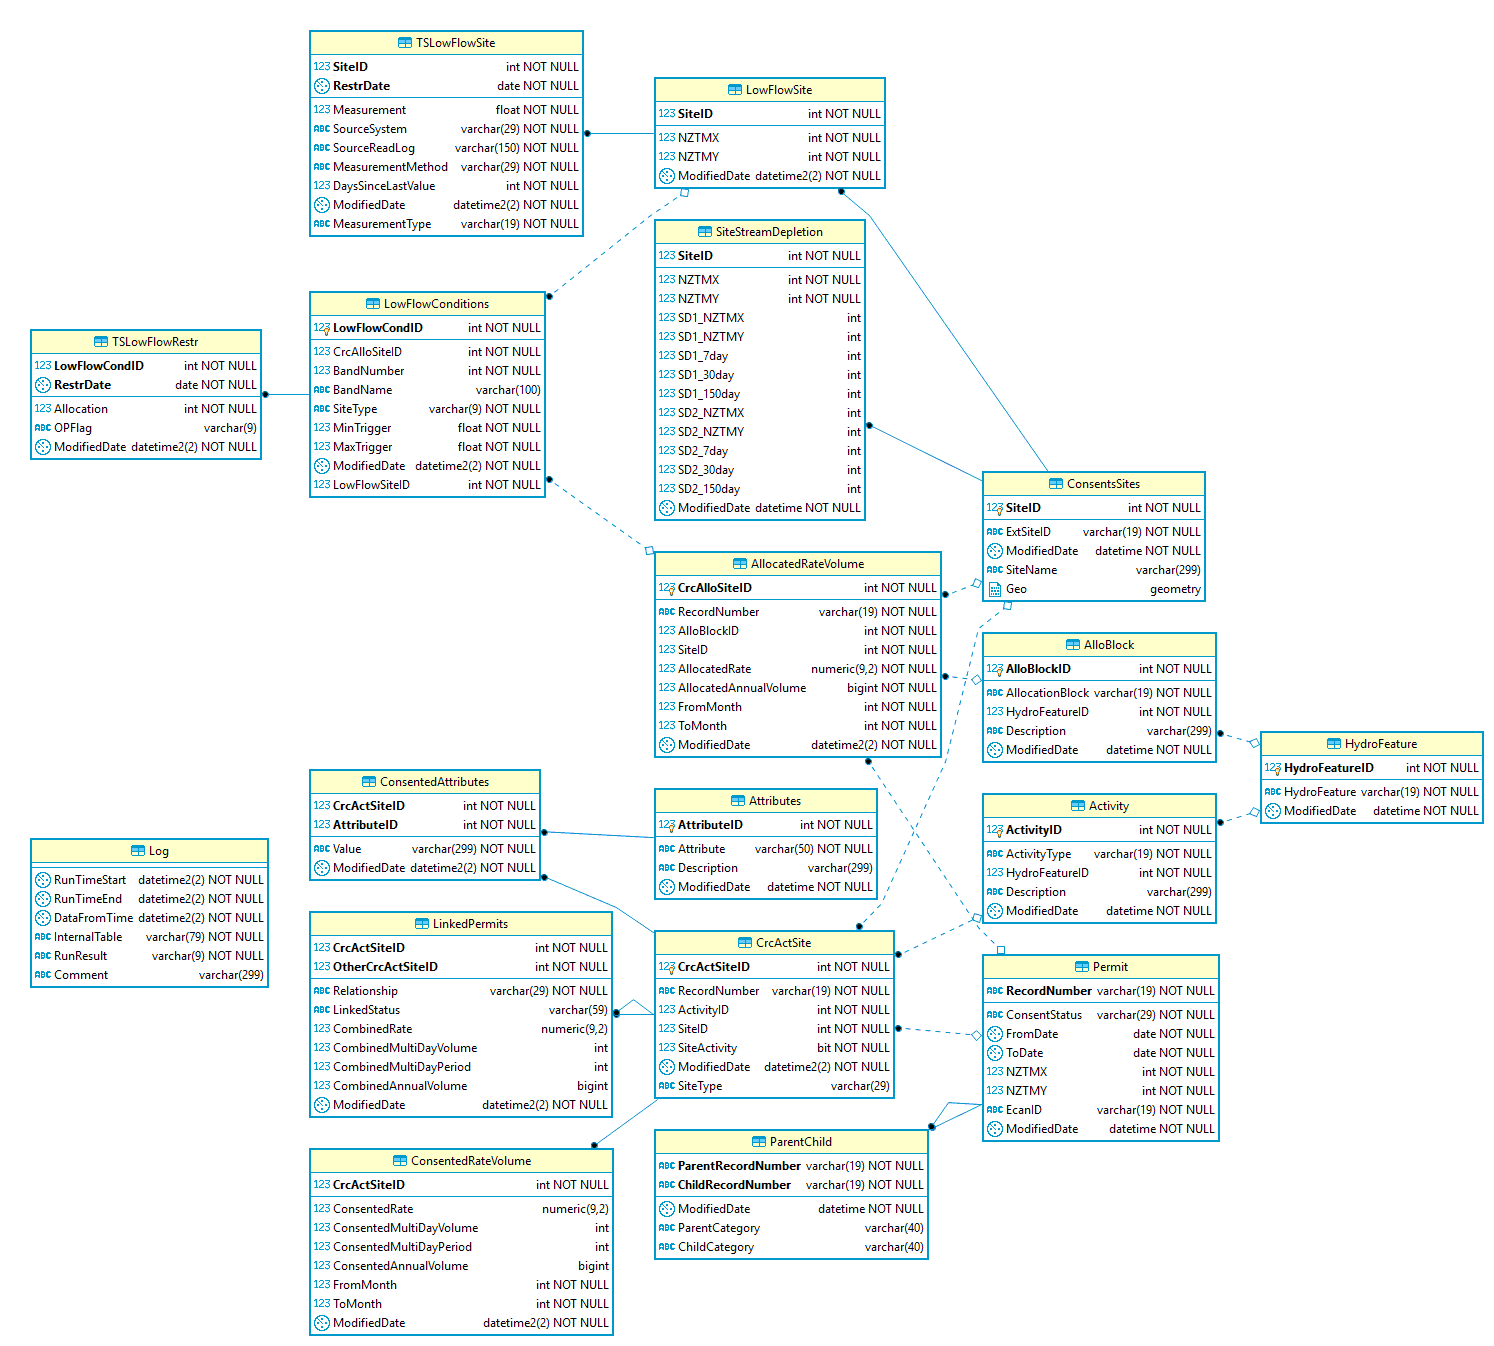
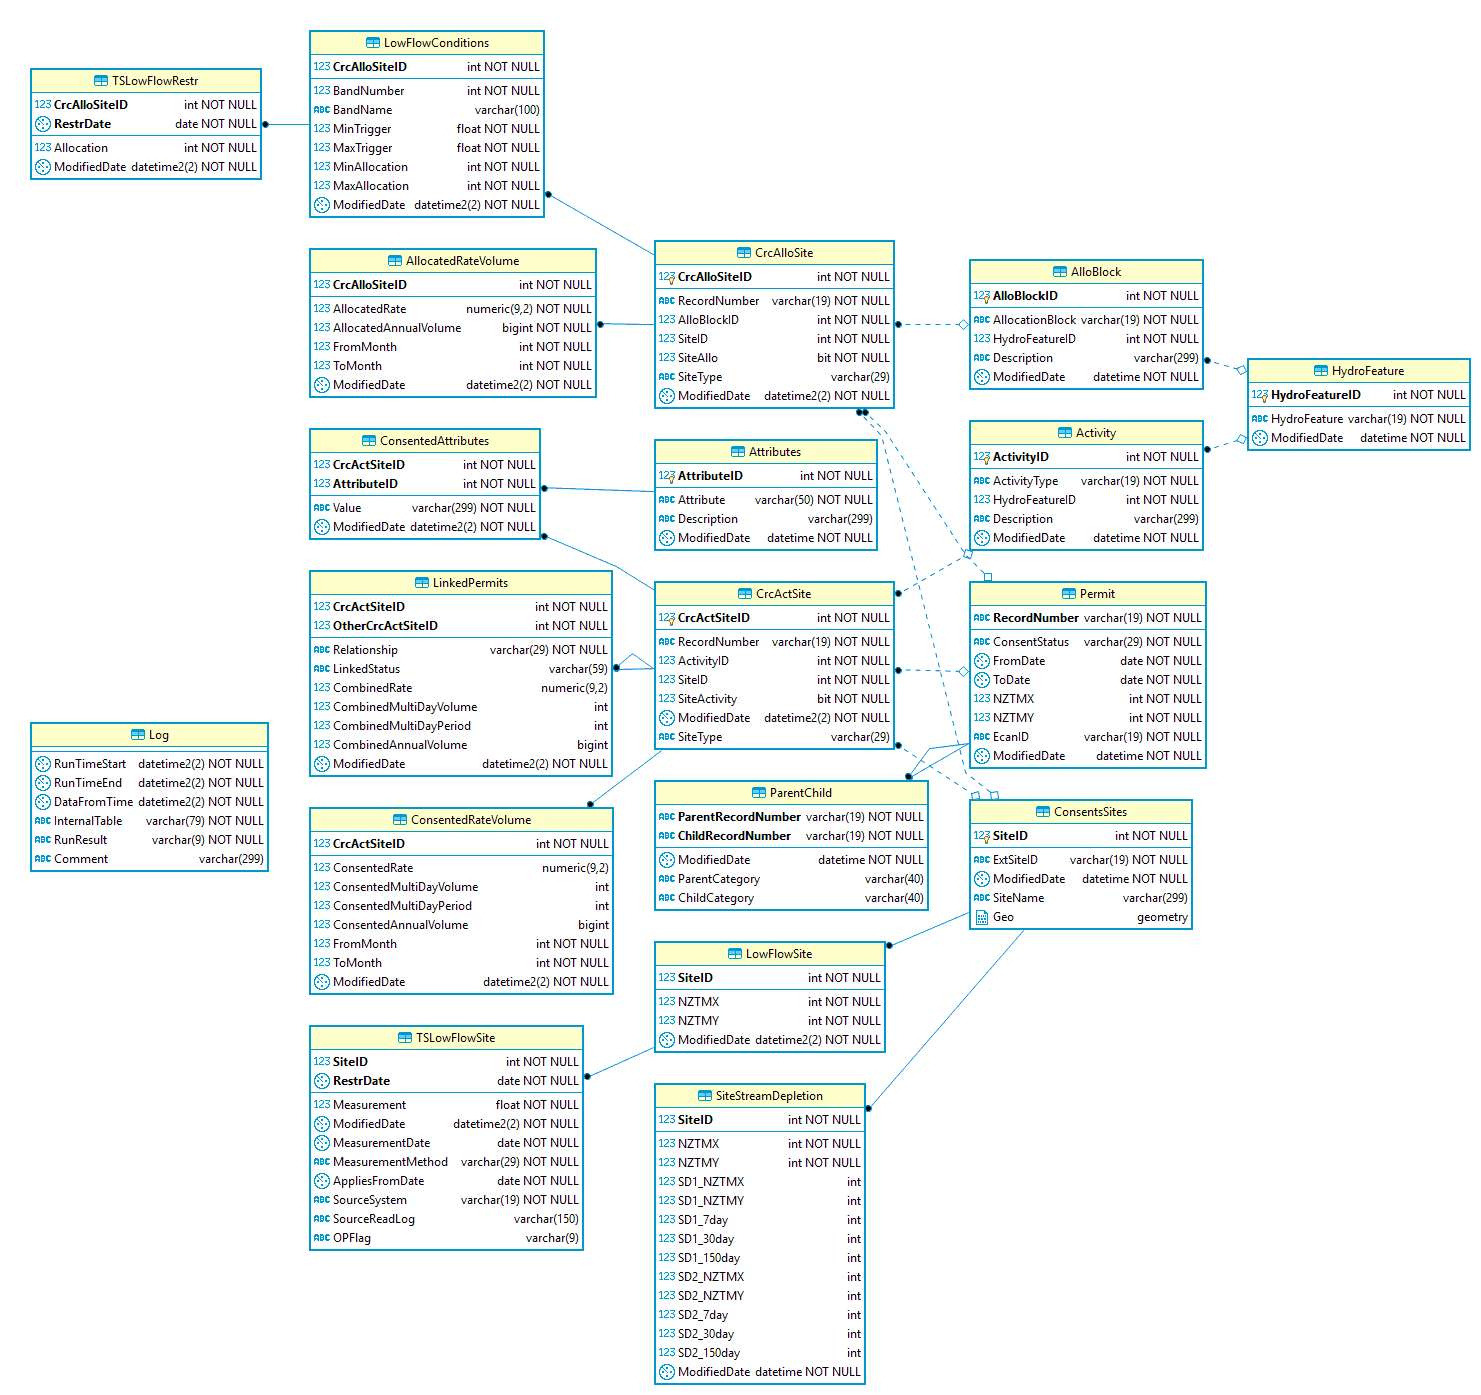
added a couple reporting tables

Changed region(s): [[0.0, 0.0, 0.9939, 0.9985]]

diff --git a/reporting_tables_ts.py b/reporting_tables_ts.py
@@ -1,0 +1,133 @@
+# -*- coding: utf-8 -*-
+"""
+Created on Tue Jun 25 11:07:58 2019
+
+@author: michaelek
+"""
+import os
+import pandas as pd
+import lowflows as lf
+from pdsql import mssql
+from datetime import date, datetime, timedelta
+import yaml
+import util
+
+pd.options.display.max_columns = 10
+today1 = date.today()
+run_time_start = datetime.today().strftime('%Y-%m-%d %H:%M:%S')
+
+#today1 = date(2007, 4, 1)
+
+#####################################
+### Parameters
+
+## Core tables
+lowflow_ts_table = 'TSLowFlowRestr'
+lowflow_site_summ_table = 'TSLowFlowSiteSumm'
+lowflow_crc_block_table = 'TSCrcBlockRestr'
+
+schema1 = 'reporting'
+only_active = True
+
+max_date_stmt = "select max(RestrDate) from {table}"
+min_date_stmt = "select min(RestrDate) from {table}"
+
+## Other tables
+lowflow_restr_table = 'TSLowFlowRestr'
+lowflow_crcallosite_table = 'CrcAlloSite'
+lowflow_alloblock_table = 'AlloBlock'
+
+
+## Read parameters file
+base_dir = os.path.realpath(os.path.dirname(__file__))
+
+with open(os.path.join(base_dir, 'parameters.yml')) as param:
+    param = yaml.safe_load(param)
+
+try:
+    #####################################
+    ### TSLowFlowSiteSumm
+    print('--TSLowFlowSiteSumm')
+    table1 = lowflow_site_summ_table
+
+    ## Determine last restriction date run
+
+    stmt2 = max_date_stmt.format(table=schema1 + '.' + table1)
+    last_date1 = mssql.rd_sql(param['output']['server'], param['output']['database'], stmt=stmt2).loc[0][0]
+
+    if last_date1 is None:
+        stmt3 = min_date_stmt.format(table=lowflow_ts_table)
+        last_date1 = mssql.rd_sql(param['output']['server'], param['output']['database'], stmt=stmt3).loc[0][0]
+        last_date2 = last_date1
+    else:
+        last_date2 = last_date1 + timedelta(days=1)
+
+    print('Last sucessful date is ' + str(last_date1), ' New data to query will be ' + str(last_date2))
+
+    if last_date2 <= today1:
+
+        # Process the results
+        site_summ1 = lf.site_summary_ts(str(last_date2), str(today1), only_active=only_active).reset_index()
+
+        # Save results
+        print('Save results')
+        mssql.to_mssql(site_summ1, param['output']['server'], param['output']['database'], table1, schema=schema1)
+
+        # Log
+        log1 = util.log(param['output']['server'], param['output']['database'], 'log', run_time_start, last_date1, table1, 'pass', '{} rows updated'.format(len(site_summ1)))
+    else:
+        # Log
+        log1 = util.log(param['output']['server'], param['output']['database'], 'log', run_time_start, last_date1, table1, 'pass', 'Todays restrictions were already saved')
+
+    #####################################
+    ### TSCrcBlockRestr
+    print('--TSCrcBlockRestr')
+    table1 = lowflow_crc_block_table
+
+    ## Determine last restriction date run
+
+    stmt2 = max_date_stmt.format(table=schema1 + '.' + table1)
+    last_date1 = mssql.rd_sql(param['output']['server'], param['output']['database'], stmt=stmt2).loc[0][0]
+
+    if last_date1 is None:
+        stmt3 = min_date_stmt.format(table=lowflow_ts_table)
+        last_date1 = mssql.rd_sql(param['output']['server'], param['output']['database'], stmt=stmt3).loc[0][0]
+        last_date2 = last_date1
+    else:
+        last_date2 = last_date1 + timedelta(days=1)
+
+    print('Last sucessful date is ' + str(last_date1), ' New data to query will be ' + str(last_date2))
+
+    if last_date2 <= today1:
+
+        # Read in the required data
+        restr1 = mssql.rd_sql(param['output']['server'], param['output']['database'], lowflow_restr_table, ['CrcAlloSiteID', 'RestrDate', 'Allocation'], from_date=str(last_date2), to_date=str(today1), date_col='RestrDate')
+        crc_allo1 = mssql.rd_sql(param['output']['server'], param['output']['database'], lowflow_crcallosite_table, ['CrcAlloSiteID', 'RecordNumber', 'AlloBlockID'], where_in={'SiteType': ['Lowflow', 'Residual']})
+        allo_block1 = mssql.rd_sql(param['output']['server'], param['output']['database'], lowflow_alloblock_table, ['AlloBlockID', 'AllocationBlock'])
+
+        # Table merges
+        restr2 = pd.merge(crc_allo1, restr1, on='CrcAlloSiteID').drop('CrcAlloSiteID', axis=1)
+        restr3 = pd.merge(allo_block1, restr2, on='AlloBlockID').drop('AlloBlockID', axis=1)
+
+        # Take the min of crc, block combo
+        restr4 = restr3.groupby(['RecordNumber', 'AllocationBlock', 'RestrDate']).min().reset_index()
+
+        # Save results
+        print('Save results')
+        mssql.to_mssql(restr4, param['output']['server'], param['output']['database'], table1, schema=schema1)
+
+        # Log
+        log1 = util.log(param['output']['server'], param['output']['database'], 'log', run_time_start, last_date1, table1, 'pass', '{} rows updated'.format(len(restr4)))
+    else:
+        # Log
+        log1 = util.log(param['output']['server'], param['output']['database'], 'log', run_time_start, last_date1, table1, 'pass', 'Todays restrictions were already saved')
+
+## If failure
+
+except Exception as err:
+    err1 = err
+    print(err1)
+    log_err = util.log(param['output']['server'], param['output']['database'], 'log', run_time_start, '1900-01-01', table1, 'fail', str(err1)[:299])
+
+
+

diff --git a/reporting_tables.py b/reporting_tables.py
@@ -1,0 +1,106 @@
+# -*- coding: utf-8 -*-
+"""
+Created on Tue Jun 25 11:07:27 2019
+
+@author: michaelek
+"""
+import os
+import types
+import pandas as pd
+import numpy as np
+from pdsql import mssql
+from datetime import datetime
+import yaml
+import itertools
+import lowflows as lf
+import util
+
+pd.options.display.max_columns = 10
+run_time_start = datetime.today().strftime('%Y-%m-%d %H:%M:%S')
+
+try:
+
+    #####################################
+    ### Read parameters
+
+    schema1 = 'reporting'
+
+    ## ConsentsReporting Tables
+    permit_table = 'Permit'
+    allo_block_table = 'AlloBlock'
+    hydro_feature_table = 'HydroFeature'
+    sites_table = 'ConsentsSites'
+    crc_allo_table = 'CrcAlloSite'
+    allo_rates_table = 'AllocatedRateVolume'
+    crc_act_table = 'CrcActSite'
+    crc_attr_table = 'ConsentedAttributes'
+    attr_table = 'Attributes'
+    act_table = 'Activity'
+#    wap_table = 'SiteStreamDepletion'
+
+    ## USM
+#    usm_server = 'sql2012prod03'
+#    usm_db = 'USM'
+#    usm_site_table = 'Site'
+#    usm_site_attr_table = 'SiteAttribute'
+
+    base_dir = os.path.realpath(os.path.dirname(__file__))
+
+    with open(os.path.join(base_dir, 'parameters.yml')) as param:
+        param = yaml.safe_load(param)
+
+    #####################################
+    ### CrcAlloSiteSumm
+    print('--Update CrcAlloSiteSumm table')
+
+    ## Read base data
+    permit1 = mssql.rd_sql(param['output']['server'], param['output']['database'], permit_table, ['RecordNumber', 'ConsentStatus', 'FromDate', 'ToDate'])
+    allo_block1 = mssql.rd_sql(param['output']['server'], param['output']['database'], allo_block_table, ['AlloBlockID', 'AllocationBlock', 'HydroFeatureID'])
+    hf1 = mssql.rd_sql(param['output']['server'], param['output']['database'], hydro_feature_table, ['HydroFeatureID', 'HydroFeature'])
+    sites1 = mssql.rd_sql(param['output']['server'], param['output']['database'], sites_table, ['SiteID', 'ExtSiteID'])
+    crc_allo_id1 = mssql.rd_sql(param['output']['server'], param['output']['database'], crc_allo_table, ['CrcAlloSiteID', 'RecordNumber', 'AlloBlockID', 'SiteID'], where_in={'SiteAllo': [1]})
+    crc_allo1 = mssql.rd_sql(param['output']['server'], param['output']['database'], allo_rates_table, ['CrcAlloSiteID', 'AllocatedRate', 'AllocatedAnnualVolume', 'FromMonth', 'ToMonth'])
+    act1 = mssql.rd_sql(param['output']['server'], param['output']['database'], act_table, ['ActivityID'], where_in={'ActivityType': ['Use']})
+    crc_act_id1 = mssql.rd_sql(param['output']['server'], param['output']['database'], crc_act_table, ['CrcActSiteID', 'RecordNumber'], where_in={'ActivityID': act1.ActivityID.tolist()})
+    attr1 = mssql.rd_sql(param['output']['server'], param['output']['database'], attr_table, ['AttributeID', 'Attribute'], where_in={'Attribute': ['WaterUse', 'IrrigationArea']})
+    crc_attr1 = mssql.rd_sql(param['output']['server'], param['output']['database'], crc_attr_table, ['CrcActSiteID', 'AttributeID', 'Value'], where_in={'AttributeID': attr1.AttributeID.tolist()})
+
+    ## Use types
+    crc_attr2 = pd.merge(crc_attr1, attr1, on='AttributeID').drop('AttributeID', axis=1).set_index(['CrcActSiteID', 'Attribute']).unstack(1).Value.reset_index()
+    crc_attr2.IrrigationArea = pd.to_numeric(crc_attr2.IrrigationArea).round()
+    crc_attr2.loc[crc_attr2.IrrigationArea.isnull(), 'IrrigationArea'] = 0
+    crc_attr3 = pd.merge(crc_act_id1, crc_attr2, on='CrcActSiteID').drop('CrcActSiteID', axis=1).drop_duplicates('RecordNumber')
+
+    ## Allocations
+    crc_allo2 = pd.merge(crc_allo_id1, crc_allo1, on='CrcAlloSiteID').drop('CrcAlloSiteID', axis=1)
+    crc_allo3 = pd.merge(allo_block1, crc_allo2, on='AlloBlockID').drop('AlloBlockID', axis=1)
+    crc_allo4 = pd.merge(hf1, crc_allo3, on='HydroFeatureID').drop('HydroFeatureID', axis=1)
+    crc_allo5 = pd.merge(sites1, crc_allo4, on='SiteID').drop('SiteID', axis=1)
+    crc_allo6 = pd.merge(permit1, crc_allo5, on='RecordNumber')
+    crc_allo7 = pd.merge(crc_allo6, crc_attr3, on='RecordNumber')
+
+    ## Save results
+    new_allo = mssql.update_from_difference(crc_allo7, param['output']['server'], param['output']['database'], schema1 + '.CrcAlloSiteSumm', on=['RecordNumber', 'AllocationBlock', 'HydroFeature', 'ExtSiteID'], mod_date_col='ModifiedDate')
+
+    # Log
+    log1 = util.log(param['output']['server'], param['output']['database'], 'log', run_time_start, '1900-01-01', 'CrcAlloSiteSumm', 'pass', '{} rows updated'.format(len(new_allo)))
+
+
+    ####################################
+    ###
+
+
+    ## Read base data
+#    usm_sites1 = mssql.rd_sql(usm_server, usm_db, usm_site_table, ['UpstreamSiteID', 'SiteMasterID', 'NZTMX', 'NZTMY']).rename(columns={'UpstreamSiteID': 'ExtSiteID', 'SiteMasterID': 'SiteID'})
+#    usm_site_attr1 = mssql.rd_sql(usm_server, usm_db, usm_site_attr_table, ['SiteID', 'CatchmentNumber', 'CatchmentName', 'CatchmentGroupName', 'CatchmentGroupNumber', 'CwmsName', 'SwazName', 'SwazGroupName', 'SwazSubRegionalName', 'GwazName'])
+
+
+
+
+
+
+
+
+
+
+

diff --git a/ts_processing.py b/ts_processing.py
@@ -16,16 +16,14 @@ pd.options.display.max_columns = 10
 today1 = date.today()
 run_time_start = datetime.today().strftime('%Y-%m-%d %H:%M:%S')
 
-#today1 = date(2007, 4, 1)
+#today1 = date(2010, 7, 1)
 
 #####################################
 ### Parameters
 
 lowflow_ts_table = 'TSLowFlowRestr'
 lowflow_site_ts_table = 'TSLowFlowSite'
-lowflow_site_summ_table = 'TSLowFlowSiteSumm'
-schema1 = 'reporting'
-only_active = True
+permit_table = 'Permit'
 
 max_date_stmt = "select max(RestrDate) from {table}"
 min_date_stmt = "select min(RestrDate) from {table}"
@@ -49,7 +47,7 @@ try:
     last_date1 = mssql.rd_sql(param['output']['server'], param['output']['database'], stmt=stmt1).loc[0][0]
 
     if last_date1 is None:
-        last_date1 = '1900-01-01'
+        last_date1 = date(1900, 1, 1)
         last_date2 = last_date1
     else:
         last_date2 = last_date1 + timedelta(days=1)
@@ -61,6 +59,17 @@ try:
         # Process the results
         restr_ts1 = lf.allocation_ts(str(last_date2), str(today1)).reset_index()
 
+        # Permits
+        permit1 = mssql.rd_sql(param['output']['server'], param['output']['database'], permit_table, ['RecordNumber', 'FromDate', 'ToDate'])
+
+        # permit date filter
+        permit2 = permit1[(permit1.FromDate < today1) & (permit1.ToDate > last_date2)].copy()
+        permit2.FromDate = pd.to_datetime(permit2.FromDate)
+        permit2.ToDate = pd.to_datetime(permit2.ToDate)
+
+        restr4 = pd.merge(permit2, restr_ts1, on='RecordNumber')
+        restr5 = restr4[(restr4.RestrDate <= restr4.ToDate) & (restr4.RestrDate >= restr4.FromDate)].drop(['FromDate', 'ToDate'], axis=1).copy()
+
         # Read db tables
         allo_site_trig = mssql.rd_sql(param['output']['server'], param['output']['database'], 'CrcAlloSite', ['CrcAlloSiteID', 'RecordNumber', 'AlloBlockID', 'SiteID'], where_in={'SiteType': ['LowFlow', 'Residual']})
 
@@ -69,7 +78,7 @@ try:
         allo_site_trig1 = pd.merge(trig_cond1, allo_site_trig, on='CrcAlloSiteID')
 
         # Combine tables
-        restr_ts2 = pd.merge(sites1, restr_ts1, on='ExtSiteID').drop('ExtSiteID', axis=1)
+        restr_ts2 = pd.merge(sites1, restr5, on='ExtSiteID').drop('ExtSiteID', axis=1)
 
         restr_ts3 = pd.merge(restr_ts2, allo_site_trig1, on=['RecordNumber', 'SiteID', 'BandNumber']).drop(['RecordNumber', 'SiteID', 'BandNumber', 'AlloBlockID'], axis=1).drop_duplicates(['CrcAlloSiteID', 'RestrDate'])
 
@@ -121,40 +130,6 @@ try:
 
         # Log
         log1 = util.log(param['output']['server'], param['output']['database'], 'log', run_time_start, last_date1, table1, 'pass', '{} rows updated'.format(len(site_log2)))
-    else:
-        # Log
-        log1 = util.log(param['output']['server'], param['output']['database'], 'log', run_time_start, last_date1, table1, 'pass', 'Todays restrictions were already saved')
-
-    #####################################
-    ### TSLowFlowSiteSumm
-    print('--TSLowFlowSiteSumm')
-    table1 = lowflow_site_summ_table
-
-    ## Determine last restriction date run
-
-    stmt2 = max_date_stmt.format(table=schema1 + '.' + table1)
-    last_date1 = mssql.rd_sql(param['output']['server'], param['output']['database'], stmt=stmt2).loc[0][0]
-
-    if last_date1 is None:
-        stmt3 = min_date_stmt.format(table=lowflow_ts_table)
-        last_date1 = mssql.rd_sql(param['output']['server'], param['output']['database'], stmt=stmt3).loc[0][0]
-        last_date2 = last_date1
-    else:
-        last_date2 = last_date1 + timedelta(days=1)
-
-    print('Last sucessful date is ' + str(last_date1), ' New data to query will be ' + str(last_date2))
-
-    if last_date2 <= today1:
-
-        # Process the results
-        site_summ1 = lf.site_summary_ts(str(last_date2), str(today1), only_active=only_active).reset_index()
-
-        # Save results
-        print('Save results')
-        mssql.to_mssql(site_summ1, param['output']['server'], param['output']['database'], table1, schema=schema1)
-
-        # Log
-        log1 = util.log(param['output']['server'], param['output']['database'], 'log', run_time_start, last_date1, table1, 'pass', '{} rows updated'.format(len(site_summ1)))
     else:
         # Log
         log1 = util.log(param['output']['server'], param['output']['database'], 'log', run_time_start, last_date1, table1, 'pass', 'Todays restrictions were already saved')

diff --git a/main.py b/main.py
@@ -13,4 +13,8 @@ import process_data
 print('Populate the time series tables')
 import ts_processing
 
+print('Populate the normal reporting tables')
+import reporting_tables
 
+print('Populate the time series reporting tables')
+import reporting_tables_ts
